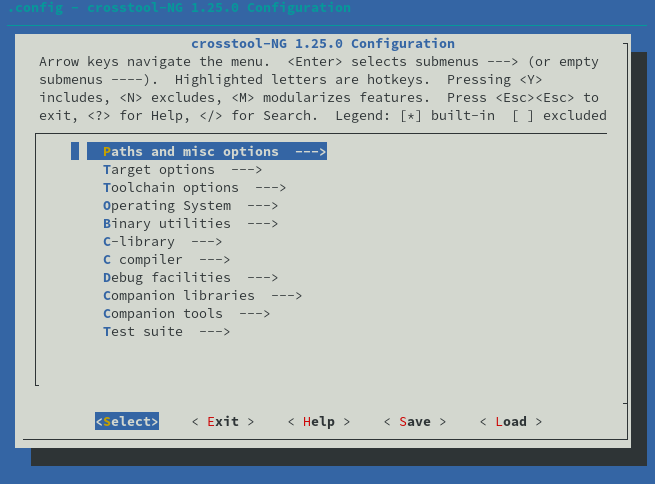
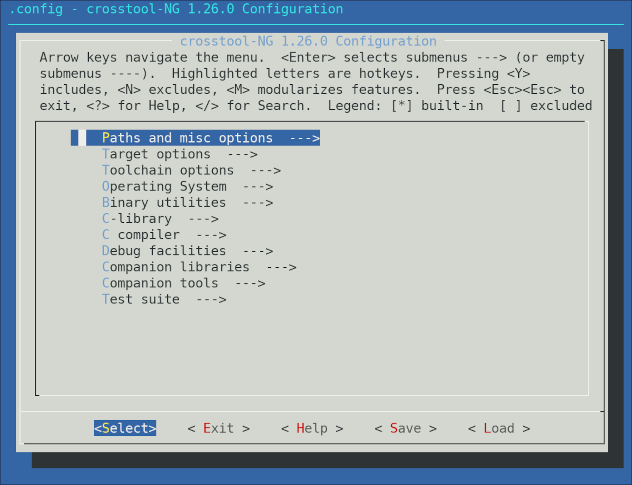
sysdev: slides: Bump crosstool-ng to 1.26.0
crosstool-ng 1.25.0 used a broken mirror for zlib.

Changed region(s): [[0.0, 0.0, 1.0, 1.0], [0.4209, 0.3711, 0.4509, 0.4021], [0.3908, 0.4021, 0.4209, 0.433]]

diff --git a/slides/sysdev-toolchains-obtaining/sysdev-toolchains-obtaining.tex b/slides/sysdev-toolchains-obtaining/sysdev-toolchains-obtaining.tex
@@ -164,7 +164,7 @@ $ git clone https://github.com/crosstool-ng/crosstool-ng.git
   \item Using a well-known stable version
 \begin{verbatim}
 $ cd crosstool-ng
-$ git checkout crosstool-ng-1.25.0
+$ git checkout crosstool-ng-1.26.0
 \end{verbatim}
   \item As we're fetching from Git, the \code{configure} script needs
     to be generated:
